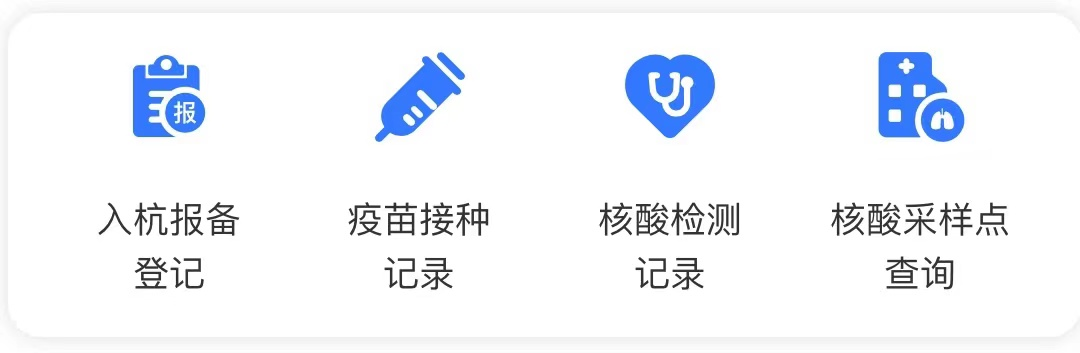
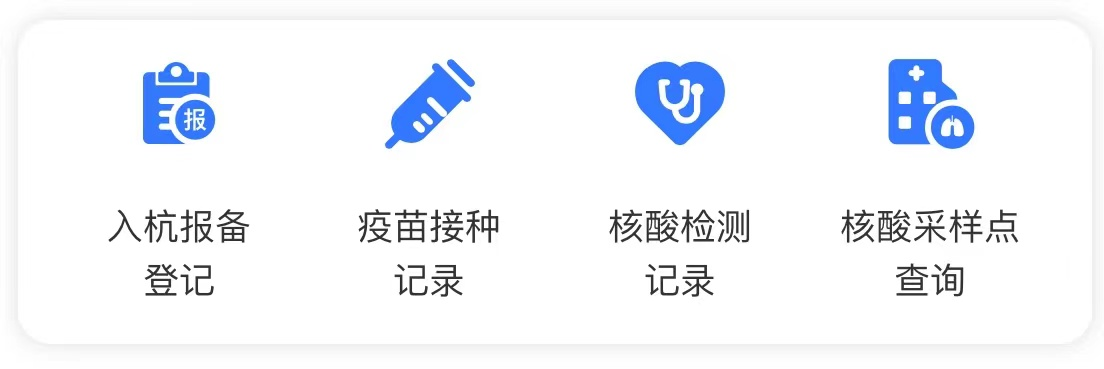
页面优化

diff --git a/index.html b/index.html
@@ -40,7 +40,7 @@
                 </p>
             </el-card>
         </div>
-        <img src="assets/WechatIMG120.jpeg" style="width: calc(100% - 20px);margin: 0 10px;">
+        <img src="assets/WechatIMG120.jpeg" style="width: calc(100% - 20px);margin: 0 3px;">
         <el-card class="first-card">
             <el-row>
                 <el-col :span="14">
@@ -57,7 +57,7 @@
                 </el-col>
             </el-row>
         </el-card>
-        <img src="assets/WechatIMG123.jpg" style="width: calc(100% - 30px);margin: 0px 15px;">
+        <img src="assets/WechatIMG123.jpg" style="width: calc(100% - 30px);margin: 0px 11px 0px 6px;">
         <p style="text-align: center;color: #1b78f3;font-size: 12px;">网络申诉</p>
         <p style="text-align: center;margin-top: 30px; color: #ccc;font-size: 12px;">服务热线：0571-12345-6</p>
         <p style="text-align: center;color: #ccc;font-size: 12px;">- 本服务由当地人民政府提供 -</p>
@@ -134,7 +134,7 @@
         padding-top: 5px;
     }
     .content{
-        height: 465px;
+        height: 469px;
         position: relative;
         margin-top:40px;
     }
@@ -146,13 +146,16 @@
     }
     .content .box-card{
         position: absolute;
-        width: calc(100% - 45px);
+        width: calc(100% - 43px);
         margin: 20px;
         border-radius: 10px;
         margin-top: 18px;
+        margin-left: 12px;
     }
     .first-card{
         margin-top: 0!important;
+        margin: 10px 25px 5px 10px;
+        border-radius: 10px;
     }
     .box-card .el-card__body{
         padding-top: 5px;
@@ -169,10 +172,6 @@
         padding: 5px;
         position: relative;
         margin: 0;
-    }
-    .first-card{
-        border-radius: 10px;
-        margin: 10px 15px;
     }
     .first-card .el-card__body{
         padding: 10px;
